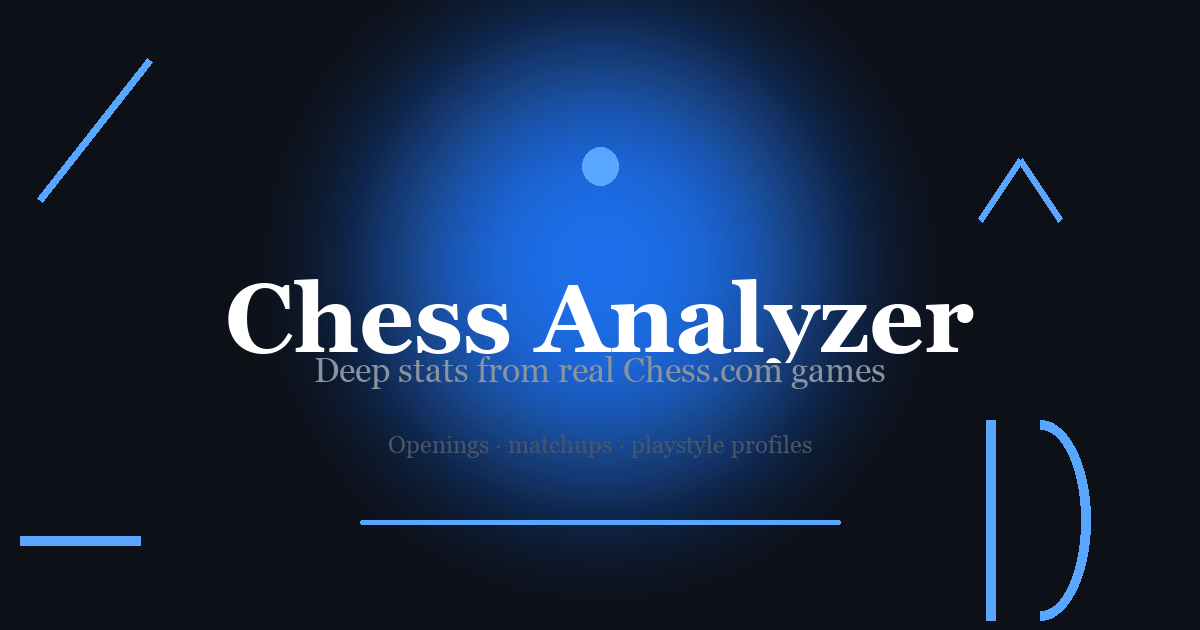
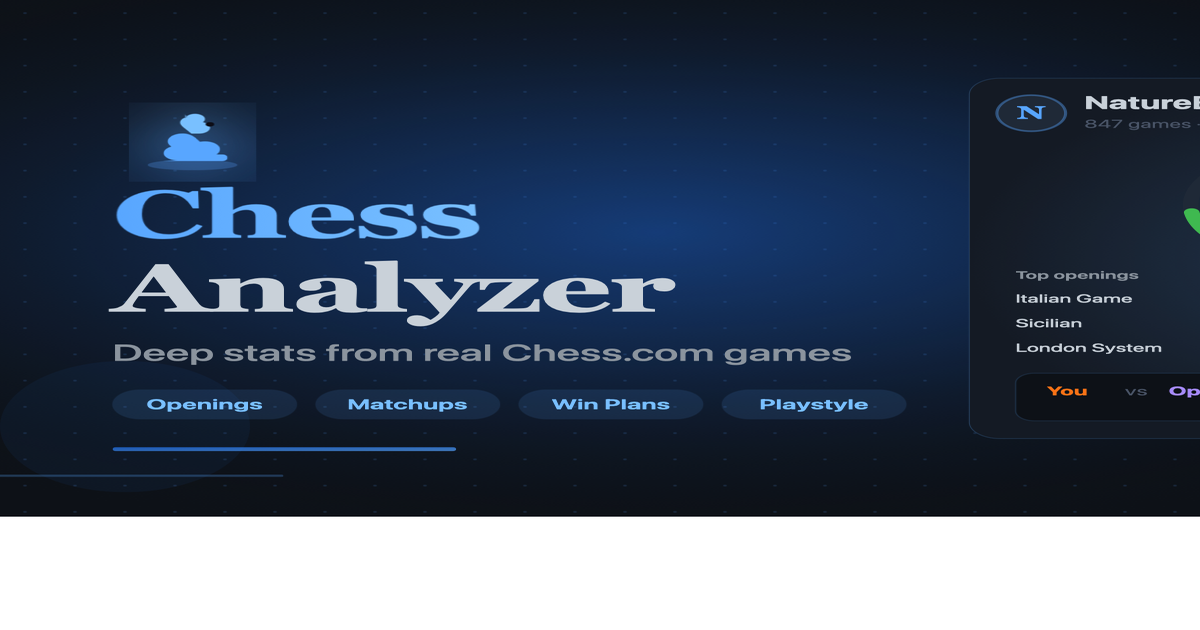
Update social preview branding to Chess Analyzer with a richer OG image.
Fix stale Chess DNA meta tags and replace the plain preview card with a dashboard-style share image.

diff --git a/index.html b/index.html
@@ -11,19 +11,19 @@
 
     <meta property="og:type" content="website" />
     <meta property="og:site_name" content="Chess Analyzer" />
-    <meta property="og:title" content="Chess DNA" />
-    <meta property="og:description" content="Discover your chess identity — openings, win rates, personality, and more from real Chess.com games." />
+    <meta property="og:title" content="Chess Analyzer" />
+    <meta property="og:description" content="Deep stats from real Chess.com games — openings, win rates, matchup plans, and shareable playstyle profiles." />
     <meta property="og:url" content="https://ch3ss-analyzer.vercel.app" />
-    <meta property="og:image" content="https://ch3ss-analyzer.vercel.app/preview.png" />
+    <meta property="og:image" content="https://ch3ss-analyzer.vercel.app/og-image.png?v=2" />
     <meta property="og:image:width" content="1200" />
     <meta property="og:image:height" content="630" />
-    <meta property="og:image:alt" content="Chess DNA — discover your chess identity from Chess.com games" />
+    <meta property="og:image:alt" content="Chess Analyzer — deep stats, openings, and matchup plans from Chess.com games" />
 
     <meta name="twitter:card" content="summary_large_image" />
-    <meta name="twitter:title" content="Chess DNA" />
-    <meta name="twitter:description" content="Discover your chess identity — openings, win rates, personality, and more from real Chess.com games." />
-    <meta name="twitter:image" content="https://ch3ss-analyzer.vercel.app/preview.png" />
-    <meta name="twitter:image:alt" content="Chess DNA — discover your chess identity from Chess.com games" />
+    <meta name="twitter:title" content="Chess Analyzer" />
+    <meta name="twitter:description" content="Deep stats from real Chess.com games — openings, win rates, matchup plans, and shareable playstyle profiles." />
+    <meta name="twitter:image" content="https://ch3ss-analyzer.vercel.app/og-image.png?v=2" />
+    <meta name="twitter:image:alt" content="Chess Analyzer — deep stats, openings, and matchup plans from Chess.com games" />
 
     <link rel="apple-touch-icon" href="/apple-touch-icon.png" />
 